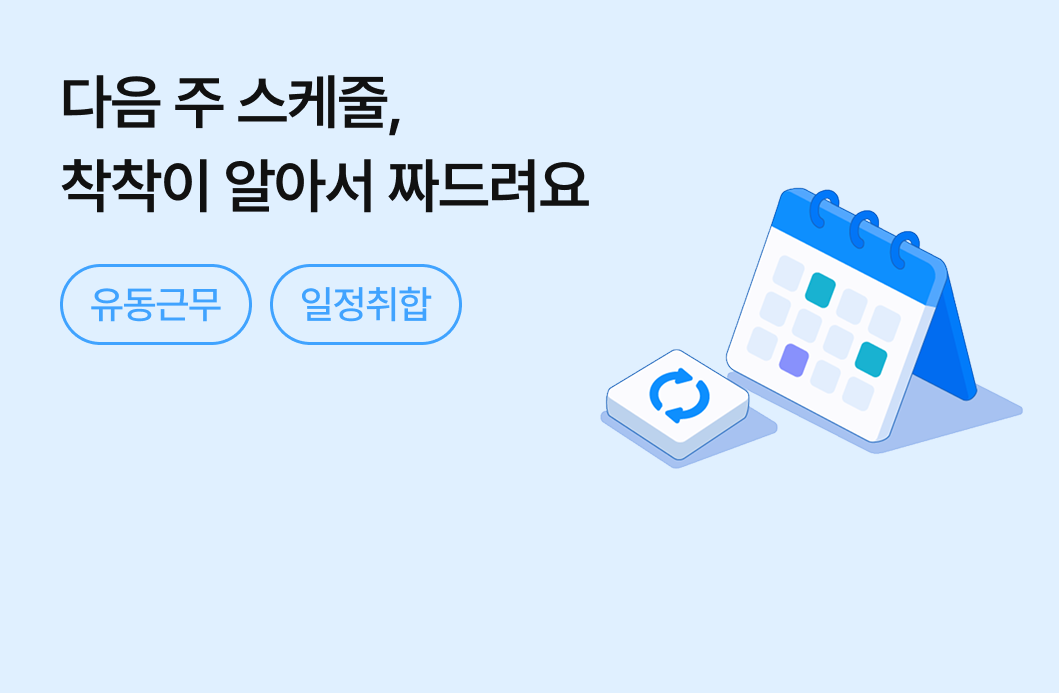
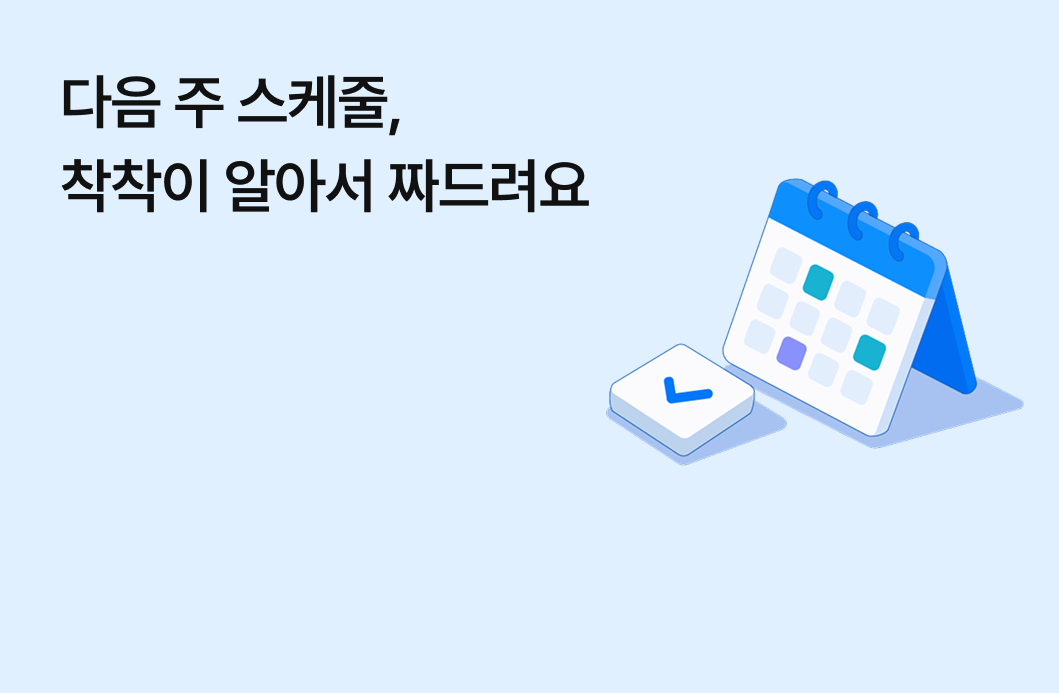
design: [사장님 메인카드 변경]

Changed region(s): [[0.5609, 0.2424, 0.966, 0.697], [0.0623, 0.3636, 0.4363, 0.5152], [0.0312, 0.4242, 0.0623, 0.4545]]

diff --git a/lib/employer/home/RHomePage.dart b/lib/employer/home/RHomePage.dart
@@ -17,6 +17,24 @@ class RHomePage extends StatefulWidget {
 
 class _RHomePageState extends State<RHomePage> {
 
+  String get nextWeekRange {
+    final now = DateTime.now();
+
+    // 이번 주 월요일
+    final thisMonday = now.subtract(
+      Duration(days: now.weekday - DateTime.monday),
+    );
+
+    // 다음 주 월요일
+    final nextMonday = thisMonday.add(const Duration(days: 7));
+
+    // 다음 주 일요일
+    final nextSunday = nextMonday.add(const Duration(days: 6));
+
+    return "${nextMonday.month}월 ${nextMonday.day}일 - "
+        "${nextSunday.month}월 ${nextSunday.day}일";
+  }
+
   void _showScheduleBottomSheet(BuildContext context) {
     showModalBottomSheet(
       context: context,
@@ -249,7 +267,7 @@ class _RHomePageState extends State<RHomePage> {
               SizedBox(
                 width: double.infinity,
                 child: AspectRatio(
-                  aspectRatio: 1080 / 693, // 업로드한 이미지 비율
+                  aspectRatio: 1080 / 693,
                   child: Stack(
                     children: [
                       /// 배경 이미지
@@ -259,6 +277,30 @@ class _RHomePageState extends State<RHomePage> {
                           child: Image.asset(
                             "assets/images/r_main_card.png",
                             fit: BoxFit.cover,
+                          ),
+                        ),
+                      ),
+
+                      /// 다음주 날짜
+                      Positioned(
+                        left: 24,
+                        top: 98,
+                        child: Container(
+                          padding: const EdgeInsets.symmetric(
+                            horizontal: 12,
+                            vertical: 6,
+                          ),
+                          decoration: BoxDecoration(
+                            color: const Color(0xFFE6F3FF),
+                            borderRadius: BorderRadius.circular(10),
+                          ),
+                          child: Text(
+                            nextWeekRange,
+                            style: const TextStyle(
+                              fontSize: 13,
+                              fontWeight: FontWeight.w600,
+                              color: Color(0xFF0084FF),
+                            ),
                           ),
                         ),
                       ),
